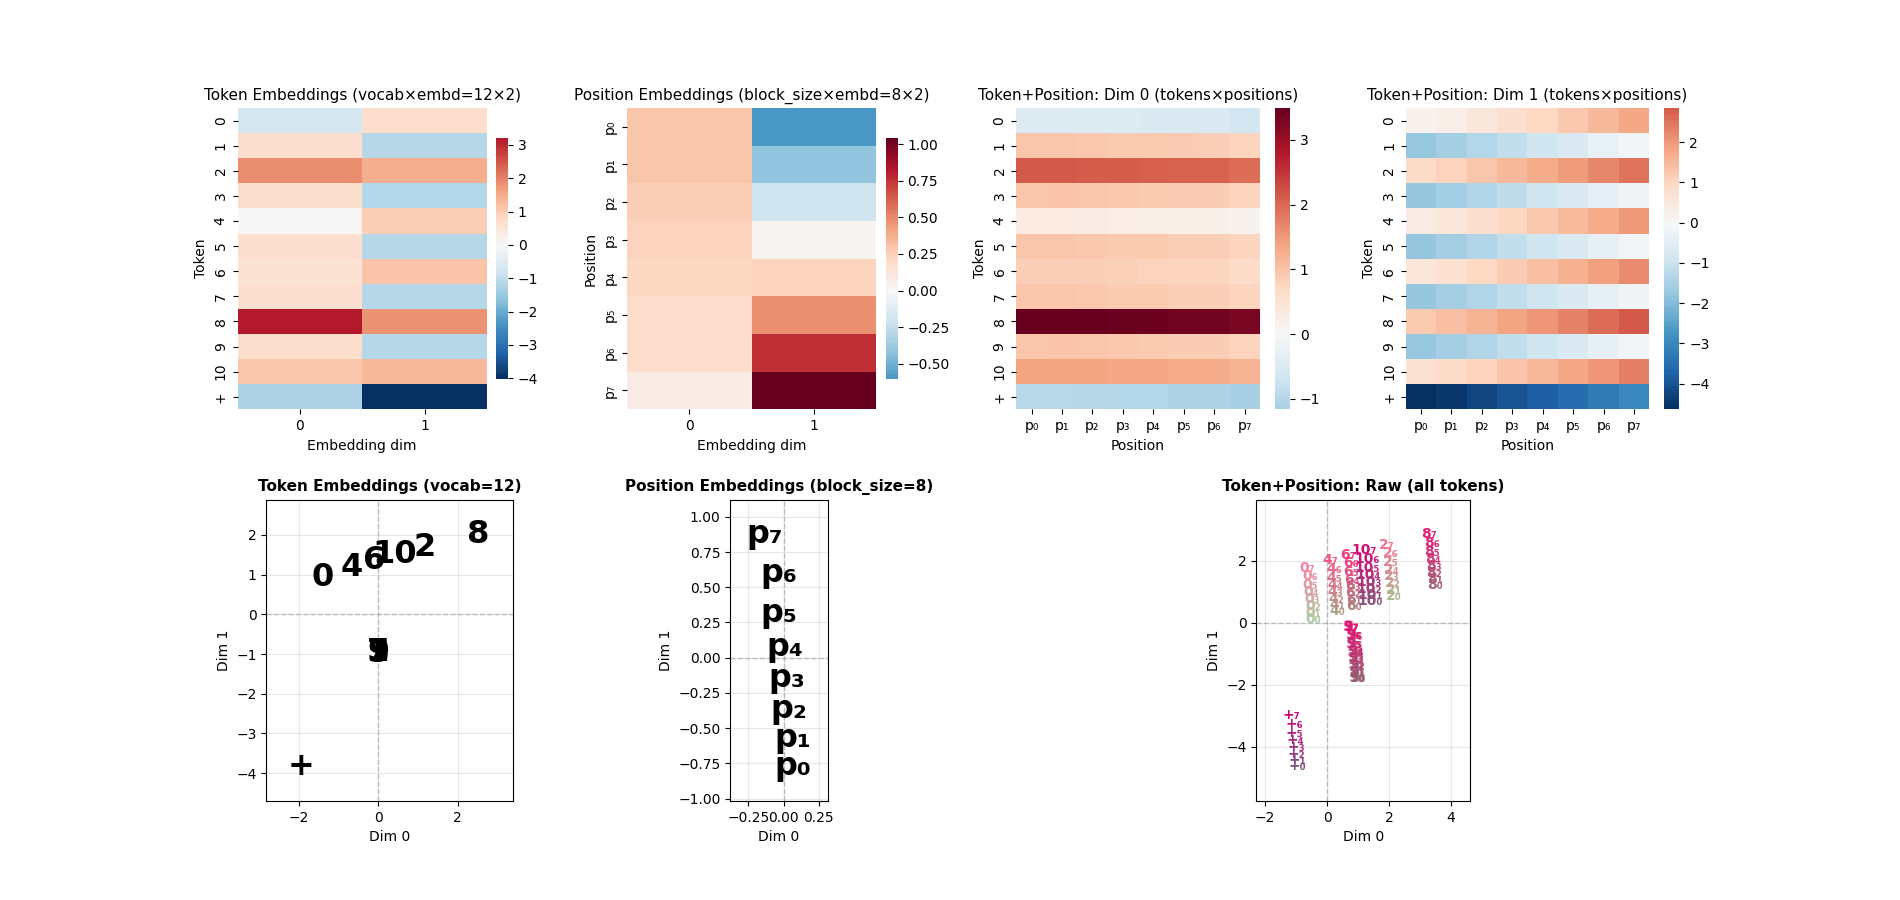
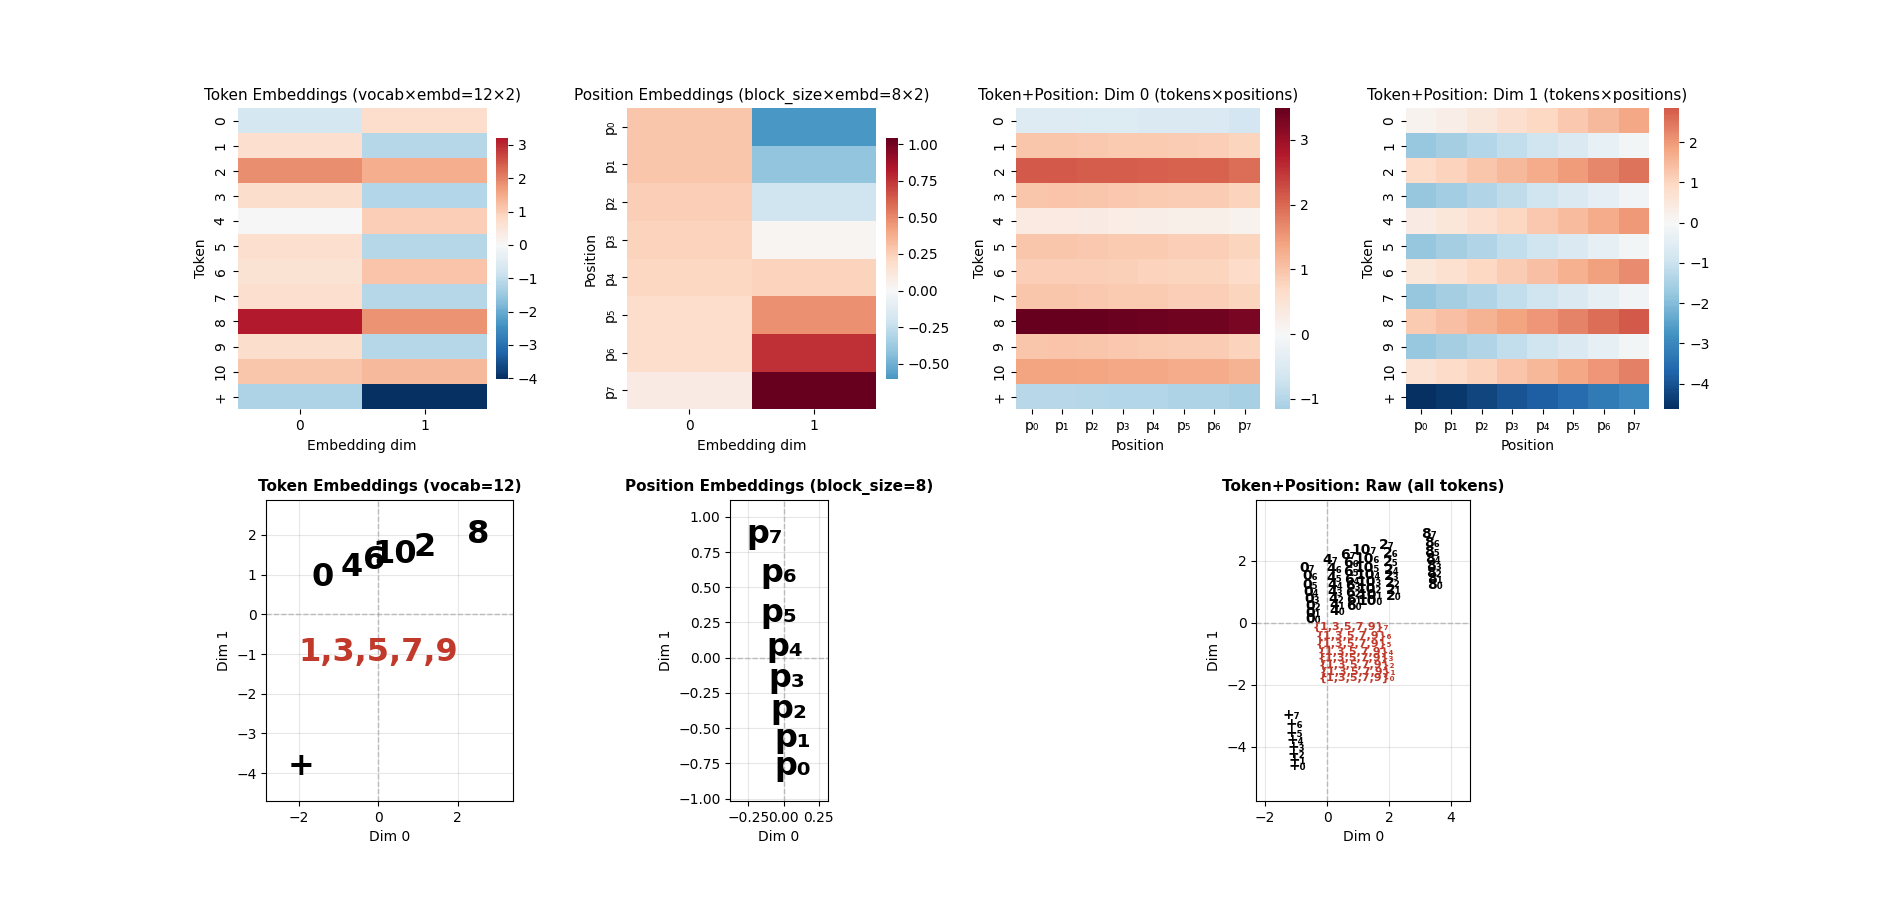
figure 5 - will redo the odd numbers

Changed region(s): [[0.6832, 0.5911, 0.7763, 0.7778], [0.1553, 0.7156, 0.2484, 0.7467]]

diff --git a/plotting/05_token_embeddings.py b/plotting/05_token_embeddings.py
@@ -294,6 +294,38 @@ def plot_embeddings_pca(model, itos, save_path=None):
         tc = np.array(mcolors.to_rgb(token_color))
         pc = np.array(mcolors.to_rgb(pos_color))
         return tuple(token_weight * tc + (1 - token_weight) * pc)
+
+    # Tokens whose embeddings coincide (e.g. all odd digits in the plus_last_even task) would be
+    # drawn on top of each other as an unreadable blob. Group them and draw ONE label per group,
+    # with a short annotation listing the members.
+    def _is_odd_token(token_str):
+        return token_str.isdigit() and int(token_str) % 2 == 1
+
+    def _coincident_token_groups(E, tol=0.05):
+        """Groups of token indices whose embedding rows are within `tol` (L2) of each other."""
+        n = len(E)
+        group_of = [-1] * n
+        groups = []
+        for i in range(n):
+            if group_of[i] >= 0:
+                continue
+            g = [i]
+            group_of[i] = len(groups)
+            for j in range(i + 1, n):
+                if group_of[j] < 0 and np.linalg.norm(E[i] - E[j]) < tol:
+                    g.append(j)
+                    group_of[j] = len(groups)
+            groups.append(g)
+        return groups
+
+    def _group_label(g, braces=False):
+        strs = [str(itos[t]) for t in g]
+        if len(g) == 1:
+            return strs[0]
+        return '{' + ','.join(strs) + '}' if braces else ','.join(strs)
+
+    # Merged (coincident) token groups are set apart by an accent colour instead of black.
+    _GROUP_COLOR = '#C0392B'
     
     # Create figure: journal=strict 4×2 grid (rows 1–3 equal height, row 4 = g); standard=2 rows × 4 cols
     from matplotlib.gridspec import GridSpec
@@ -415,9 +447,11 @@ def plot_embeddings_pca(model, itos, save_path=None):
             ax3.set_aspect('equal', adjustable='box')
         token_fontsize, token_text_color = get_scatter_annot_style(vocab_size)
         if vocab_size <= 80:
-            for i in range(vocab_size):
-                ax3.text(X_emb[i, 0], X_emb[i, 1], itos[i], fontsize=token_fontsize, fontweight='bold',
-                        ha='center', va='center', color=token_text_color)
+            for g in _coincident_token_groups(X_emb):
+                gx, gy = X_emb[g, 0].mean(), X_emb[g, 1].mean()
+                ax3.text(gx, gy, _group_label(g), fontsize=token_fontsize, fontweight='bold',
+                         ha='center', va='center', zorder=3,
+                         color=_GROUP_COLOR if len(g) > 1 else token_text_color)
         if _u._JOURNAL_MODE:
             ax3.tick_params(axis='both', labelsize=6)
     else:
@@ -581,6 +615,20 @@ def plot_embeddings_pca(model, itos, save_path=None):
     if _u._JOURNAL_MODE:
         # Make token+position annotations more legible in the large bottom panel.
         combo_fontsize = max(combo_fontsize + 6, 11)
+
+    def _draw_combo_labels(ax, XY):
+        """All labels black; tokens with coincident embeddings share one label per position."""
+        token_groups = _coincident_token_groups(embeddings[:max_token_idx])
+        for g in token_groups:
+            lbl = _group_label(g, braces=True)
+            # Set labels like {1,3,5,7,9} are wide; shrink them a little so the stack stays legible.
+            fs = combo_fontsize if len(g) == 1 else max(combo_fontsize - 2, 7)
+            color = _GROUP_COLOR if len(g) > 1 else 'black'
+            for pos_idx in range(block_size):
+                rows = [t * block_size + pos_idx for t in g]
+                gx, gy = XY[rows, 0].mean(), XY[rows, 1].mean()
+                ax.text(gx, gy, _token_pos_label(lbl, pos_idx), fontsize=fs, fontweight='bold',
+                        ha='center', va='center', color=color, zorder=3)
     
     if n_embd > 2:
         # Do PCA for dimensions > 2
@@ -598,14 +646,7 @@ def plot_embeddings_pca(model, itos, save_path=None):
             ax12.set_xlim(X2_comb[:, 0].min() - margin, X2_comb[:, 0].max() + margin)
             ax12.set_ylim(X2_comb[:, 1].min() - margin, X2_comb[:, 1].max() + margin)
 
-        for token_idx in range(max_token_idx):
-            token_str = str(itos[token_idx])
-            for pos_idx in range(block_size):
-                idx = token_idx * block_size + pos_idx
-                label = _token_pos_label(token_str, pos_idx)
-                color = blend_colors(token_colors[token_idx], pos_colors[pos_idx])
-                ax12.text(X2_comb[idx, 0], X2_comb[idx, 1], label, fontsize=combo_fontsize, fontweight='bold',
-                         ha='center', va='center', color=color)
+        _draw_combo_labels(ax12, X2_comb)
         
         ax12.set_title("Token+Position: PCA (all tokens)", fontsize=_title_fs, fontweight='bold')
         ax12.set_xlabel("PC1")
@@ -632,14 +673,7 @@ def plot_embeddings_pca(model, itos, save_path=None):
             ax12.set_xlim(X_comb[:, 0].min() - margin, X_comb[:, 0].max() + margin)
             ax12.set_ylim(X_comb[:, 1].min() - margin, X_comb[:, 1].max() + margin)
 
-        for token_idx in range(max_token_idx):
-            token_str = str(itos[token_idx])
-            for pos_idx in range(block_size):
-                idx = token_idx * block_size + pos_idx
-                label = _token_pos_label(token_str, pos_idx)
-                color = blend_colors(token_colors[token_idx], pos_colors[pos_idx])
-                ax12.text(X_comb[idx, 0], X_comb[idx, 1], label, fontsize=combo_fontsize, fontweight='bold',
-                         ha='center', va='center', color=color)
+        _draw_combo_labels(ax12, X_comb)
         
         ax12.set_title("Token+Position: Raw (all tokens)", fontsize=_title_fs, fontweight='bold')
         ax12.set_xlabel("Dim 0")
